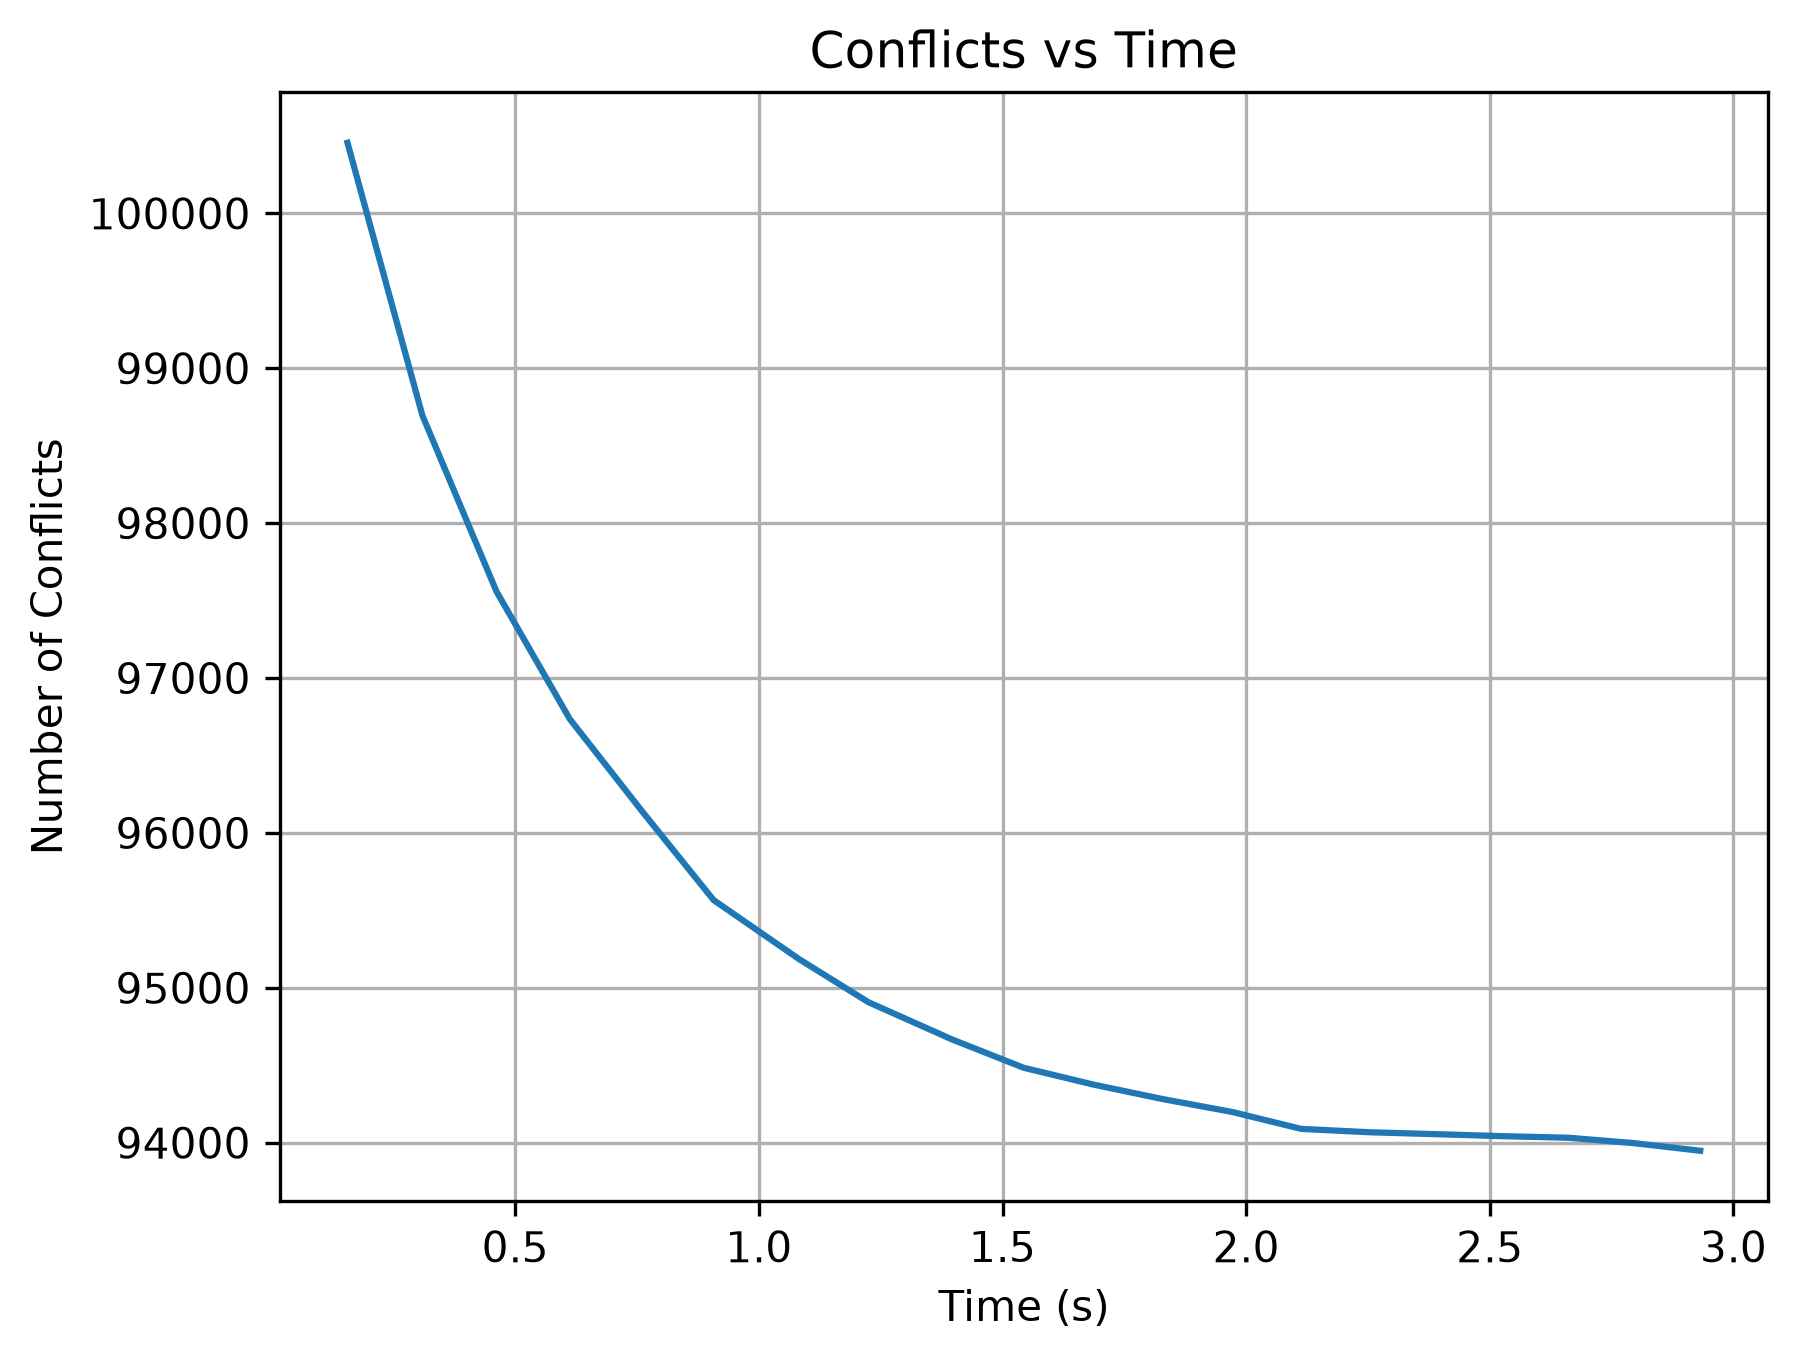
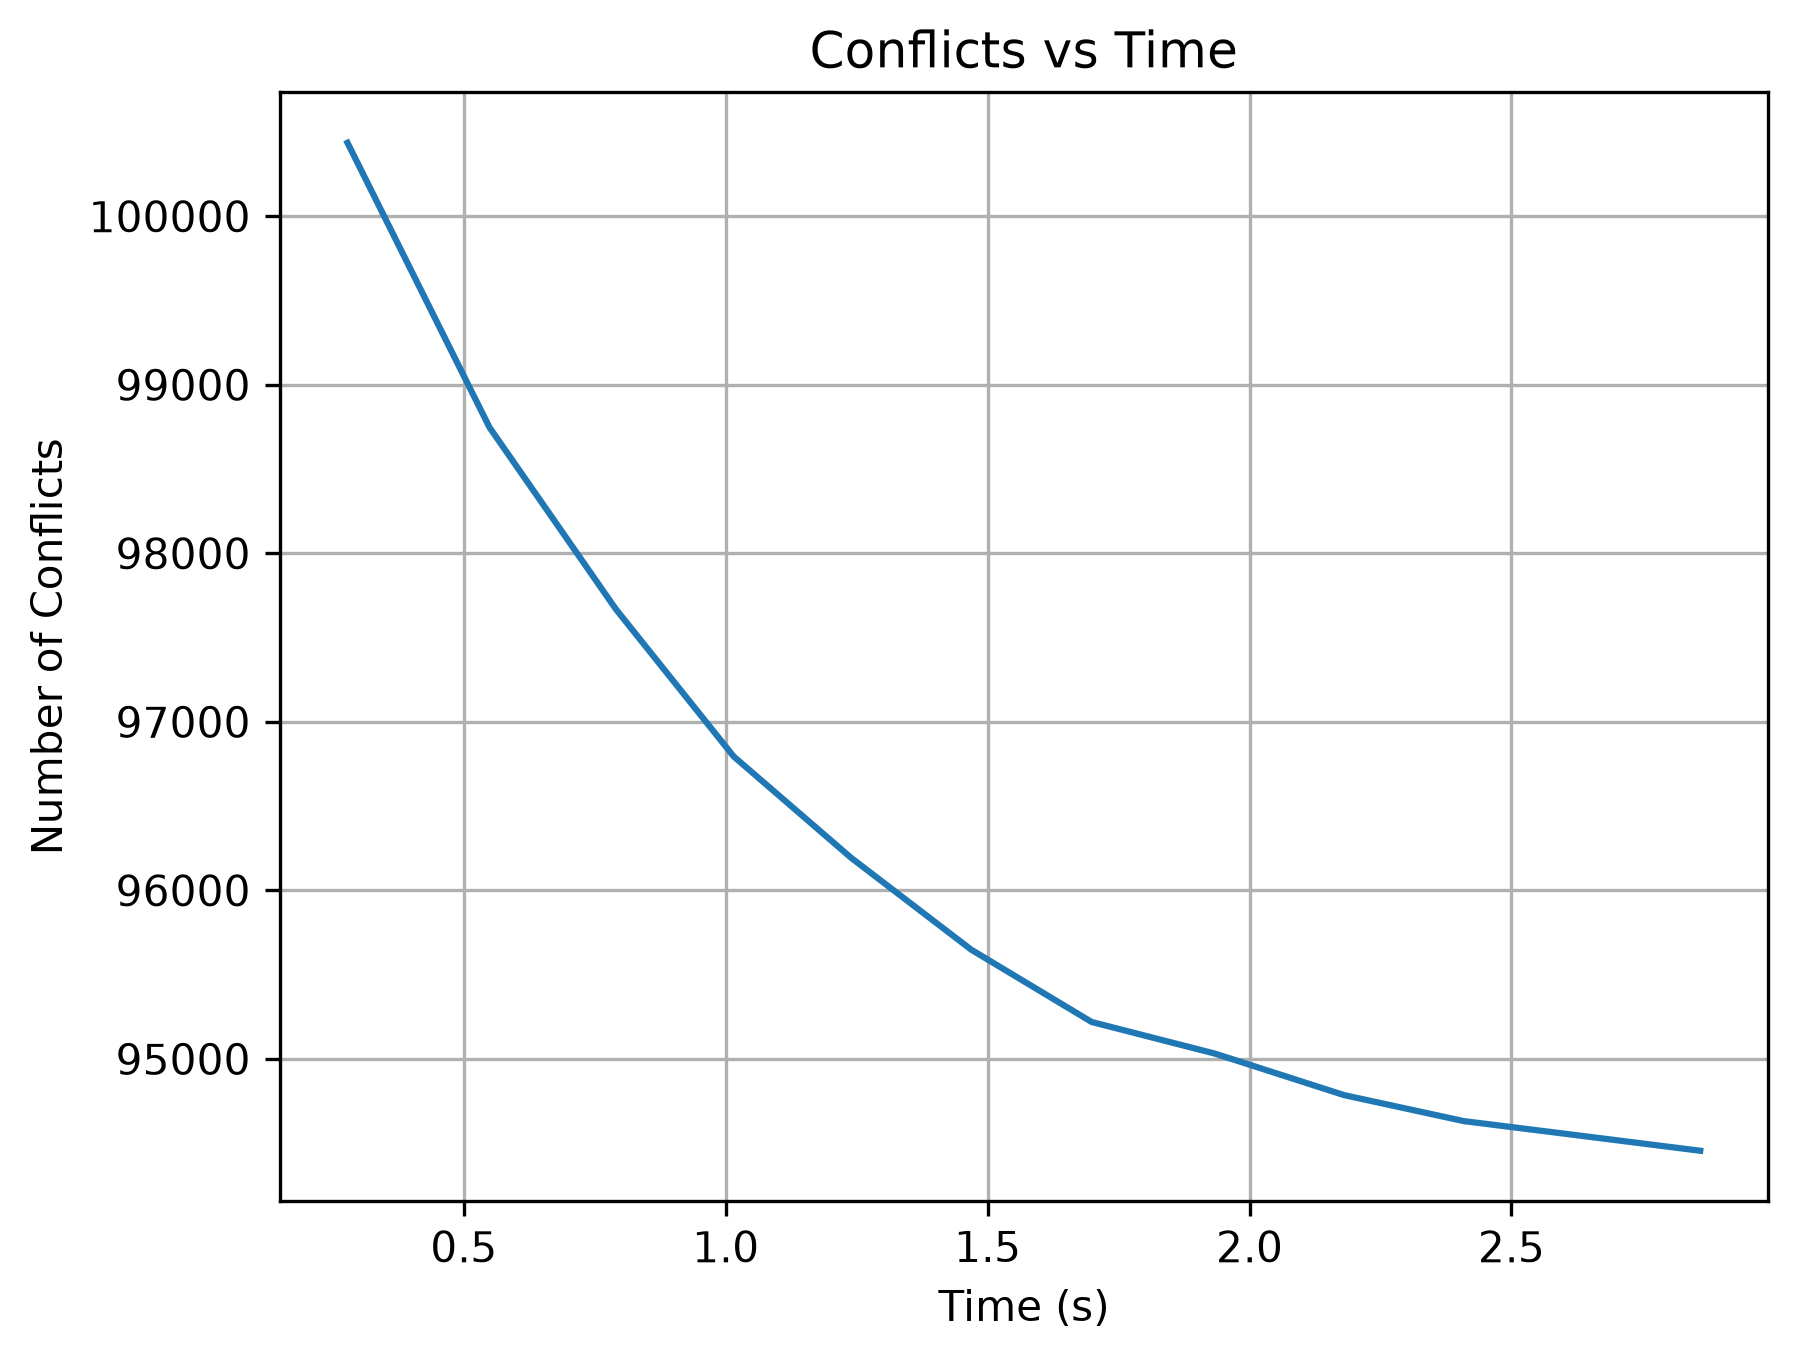
benchmarking everything

diff --git a/codes/lifted.py b/codes/lifted.py
@@ -1,17 +1,17 @@
 from samplers import metropolis_sampler
 
-def choice(graph, node, q, current_candidate, beta):
-    # Call metropolis sampler and store in variable
-    new_color = metropolis_sampler(graph, node, beta, q, current_candidate)
+# def choice(graph, node_i, q, current_candidate, beta):
+#     # Call metropolis sampler and store in variable
+#     new_color = metropolis_sampler(graph, node, beta, q, current_candidate)
 
-    # If did not make the switch
-    if node.color == new_color:
-        node.direction *= -1
+#     # If did not make the switch
+#     if node.color == new_color:
+#         node.direction *= -1
 
     
-    # If we made the switch
-    else:
-        node.color = new_color
+#     # If we made the switch
+#     else:
+#         node.color = new_color
 
-    return node.color
+#     return node.color
     

diff --git a/codes/lifted_solver.py b/codes/lifted_solver.py
@@ -1,7 +1,7 @@
 from GLOBAL import _rng
 from general_solver import Solver, _save_conflict_plot
 from samplers import metropolis_sampler
-from lifted import choice
+# from lifted import choice
 class LiftSolver(Solver):
     def __init__(self, g1, q, beta = 1.0, n_seconds=None):
         super().__init__(g1, q, beta, n_seconds)
@@ -34,7 +34,16 @@ class LiftSolver(Solver):
             proposed_new_color = (node.color + node.direction) % self.q
 
             # use sampler to get new color
-            new_color = choice(self.g, node_i, self.beta, self.q, proposed_new_color)
+
+            new_color = metropolis_sampler(self.g1, node_i, self.beta, self.q, proposed_new_color)
+
+            # If did not make the switch
+            if node.color == new_color:
+                node.direction *= -1
+
+            # If we made the switch
+            else:
+                node.color = new_color
 
             node.color = new_color
 
@@ -63,7 +72,7 @@ class LiftSolver(Solver):
                 time_list,
                 n_conflicts_list,
                 'Conflicts vs Time',
-                "stats/metropolis_solver.png",
+                "stats/lifted_solver.png",
             )
 
         return self.g1

diff --git a/codes/main.py b/codes/main.py
@@ -4,7 +4,7 @@ import time
 import numpy as np
 
 from graph_colorer import Graph
-
+from lifted_solver import LiftSolver
 from metropolis_solver import MetropolisSolver
 from gibbs_solver import GibbsSolver
 from random_solver import RandomSolver
@@ -123,10 +123,12 @@ def main():
     random_solver = RandomSolver(graph, q, beta, run_time)
     metropolis_solver = MetropolisSolver(graph, q, beta, run_time)
     gibbs_solver = GibbsSolver(graph, q, beta, run_time)
+    lifted_solver = LiftSolver(graph, q, beta, run_time)
 
     random_solver.solve()
     metropolis_solver.solve()
     gibbs_solver.solve()
+    lifted_solver.solve()
 
 
 if __name__ == "__main__":